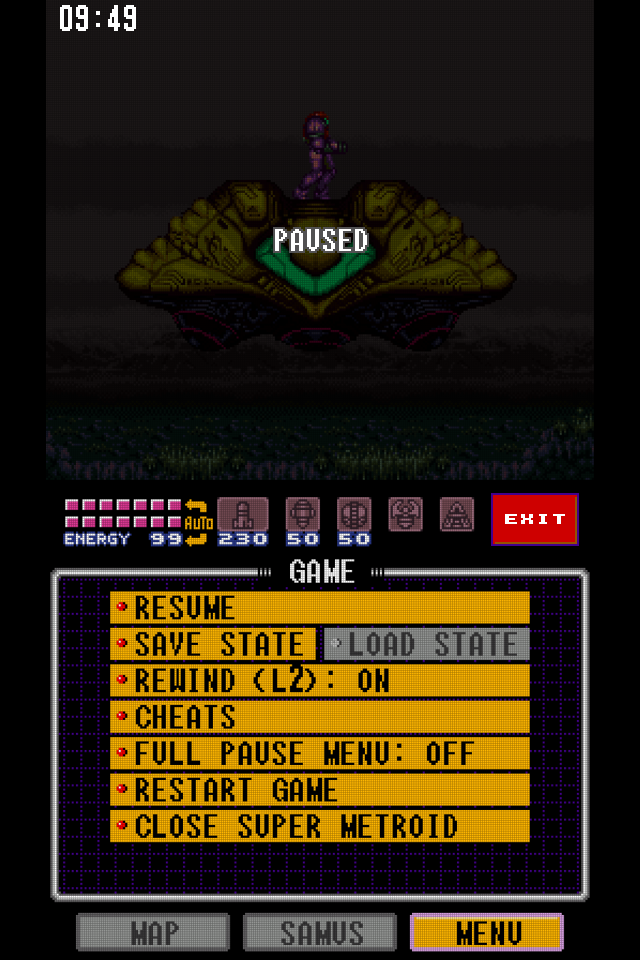
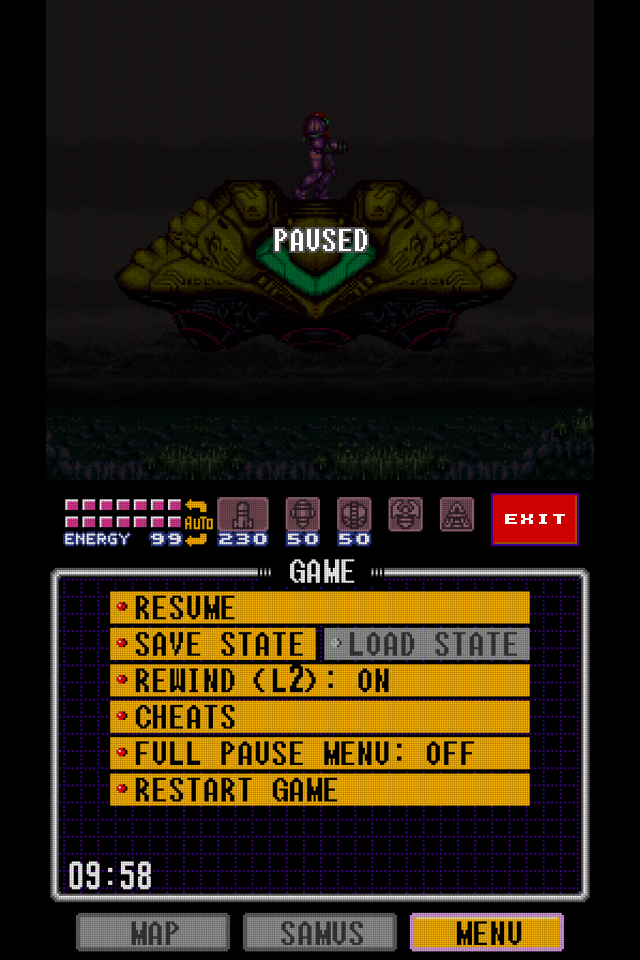
MENU: no Close Super Metroid; time and battery in the frame's corners
EXIT closes the game now, so the Game page loses Close Super Metroid.
The time and the battery leave the paused game screen for the MENU
page's bottom corners, inside the frame (the note moves up a little and
the cheats list shows 6 rows to make room).

Claude-Session: https://claude.ai/code/session_01XSANKdwaLWqU7kMzjuHK3m

Changed region(s): [[0.1562, 0.8438, 0.8438, 0.9375], [0.0938, 0.875, 0.1562, 0.9375], [0.0938, 0.0, 0.2188, 0.0312]]

diff --git a/src/game.c b/src/game.c
@@ -703,7 +703,7 @@ static MenuGeom menu_geom(void) {
 		}
 	}
 	g.nRows = row + 1;
-	g.noteY = 181;
+	g.noteY = 170;
 	return g;
 }
 
@@ -782,23 +782,6 @@ static int battery_percent(void) {
 	return pct;
 }
 
-/* While paused: the time and the battery at the top of the game screen. */
-static void draw_status(int s, SDL_Rect img, int u) {
-	char buf[16];
-	int cap = tf_cap(u * 11), cy = img.y + u * 10;
-	time_t now = time(NULL);
-	struct tm tm;
-	if (localtime_r(&now, &tm)) {
-		snprintf(buf, sizeof(buf), "%02d:%02d", tm.tm_hour, tm.tm_min);
-		ui_font_text(s, TF_BOLD, img.x + u * 6, cy, cap, buf, SM_WHITE, -1);
-	}
-	int pct = battery_percent();
-	if (pct >= 0) {
-		snprintf(buf, sizeof(buf), "%d%%", pct);
-		ui_font_text(s, TF_BOLD, img.x + img.w - u * 6, cy, cap, buf, SM_WHITE, 1);
-	}
-}
-
 /* PAUSED at the game's text size, white with a dark grey edge a pixel
  * wide, like the opening's text crawl (u screen pixels a game pixel) */
 static void draw_paused_label(int s, int cx, int cy, int u) {
@@ -816,7 +799,7 @@ static void draw_paused_label(int s, int cx, int cy, int u) {
  * list, each with ON / OFF (as in GBA DS). D-pad and A to switch, L / R a
  * page at a time, B back; tap a cheat to switch it, drag to scroll, the
  * left arrow (or a swipe right) to go back. */
-#define CHEAT_ROWS 7 /* rows on screen */
+#define CHEAT_ROWS 6 /* rows on screen */
 
 static void cheat_keep_visible(void) {
 	if (cheatSel < cheatScroll) cheatScroll = cheatSel;
@@ -889,11 +872,29 @@ static void compose_cheats(uint32_t* px) {
 	px_text(px, TF_BOLD, SNES_W / 2, menu_geom().noteY, foot, PX_ORANGE, 0, 0);
 }
 
+/* The time and the battery in the frame's bottom corners. */
+static void compose_status(uint32_t* px) {
+	char buf[16];
+	int cy = FRAME_Y1 - 11;
+	time_t now = time(NULL);
+	struct tm tm;
+	if (localtime_r(&now, &tm)) {
+		snprintf(buf, sizeof(buf), "%02d:%02d", tm.tm_hour, tm.tm_min);
+		px_text(px, TF_BOLD, FRAME_X0 + 8, cy, buf, PX_WHITE, 0, -1);
+	}
+	int pct = battery_percent();
+	if (pct >= 0) {
+		snprintf(buf, sizeof(buf), "%d%%", pct);
+		px_text(px, TF_BOLD, FRAME_X1 - 7, cy, buf, PX_WHITE, 0, 1);
+	}
+}
+
 static void compose_menu(uint32_t* px) {
 	if (cheatsOpen) {
 		px_pause_frame(px, "CHEATS");
 		px_arrow(px, false); /* back */
 		compose_cheats(px);
+		compose_status(px);
 		return;
 	}
 	px_pause_frame(px, pageTitles[curPage]);
@@ -905,6 +906,7 @@ static void compose_menu(uint32_t* px) {
 		px_item(px, g.items[i], item_label(menuItems[i]), NULL, item_enabled(menuItems[i]), sel);
 	}
 	if (menuNote[0]) px_text(px, TF_BOLD, SNES_W / 2, g.noteY, menuNote, PX_ORANGE, 0, 0);
+	compose_status(px);
 }
 
 /* ------------------------------------------------- touches on the MENU page */
@@ -1348,7 +1350,6 @@ static void draw_game(void) {
 			ui_fill(s, img, (SDL_Color) { 0, 0, 0, 150 });
 			int u = SDL_max(1, img.w / SNES_W);
 			draw_paused_label(s, img.x + img.w / 2, img.y + img.h / 2, u);
-			draw_status(s, img, u);
 		}
 		if (cfg->showFps) {
 			char buf[48];
@@ -1419,7 +1420,6 @@ enum GameExit game_run(Config* c, const char* rom) {
 	pages[0][pageLen[0]++] = M_CHEATS;
 	pages[0][pageLen[0]++] = M_FULLPAUSE;
 	pages[0][pageLen[0]++] = M_RESTART;
-	pages[0][pageLen[0]++] = M_EXIT;
 	pages[1][pageLen[1]++] = M_SHOT;
 	pages[1][pageLen[1]++] = M_SCALE;
 	pages[1][pageLen[1]++] = M_LCD;

diff --git a/README.md b/README.md
@@ -115,7 +115,7 @@ Crateria); `rewind = 0` turns it off.
 224), scaled like the rest of the second screen. It has two pages (swipe,
 tap an arrow, or L / R):
 
-- **Game**: Resume, Save State and Load State (side by side: D-pad left / right between them), Rewind, Cheats, Full Pause Menu (off: START just pauses; on: START opens the game's own pause screen, map and equipment, on the game screen), Restart Game, Close Super Metroid
+- **Game**: Resume, Save State and Load State (side by side: D-pad left / right between them), Rewind, Cheats, Full Pause Menu (off: START just pauses; on: START opens the game's own pause screen, map and equipment, on the game screen), Restart Game (the time and the battery are in the frame's bottom corners)
 - **Display**: Take Screenshot, Scale (Pixel Perfect / Full Width / Zoom / Stretch), Shader (Off / Pixel Grid / Scanlines), Show FPS
 
 Running at the display's refresh rate (`match_display`) and the frame buffer (`frame_buffer`) are set in `sm-ds.cfg`.

diff --git a/CHANGELOG.md b/CHANGELOG.md
@@ -7,6 +7,7 @@
 - The settings menu is a third page of the second screen: **MENU**, after MAP and SAMUS, in the pause screen's frame with the page's name (GAME / DISPLAY) in its top edge. Swipe left / right, or tap the map-style arrow at its side, for the other page; the L / R tabs are gone. HOME still brings it up (the game paused, the D-pad on the menu).
 - The SETTINGS MENU button is now **EXIT** (white on red), with an **ARE YOU SURE?** box first.
 - With no map to show, the MAP page says MAP DATA UNAVAILABLE. PLEASE CONTINUE EXPLORING. in the prologue's outlined green, in the small font.
+- Close Super Metroid is gone from the Game page (EXIT does it), and the time and battery moved from the paused game screen to the MENU page's bottom corners.
 
 ## v0.2
 
